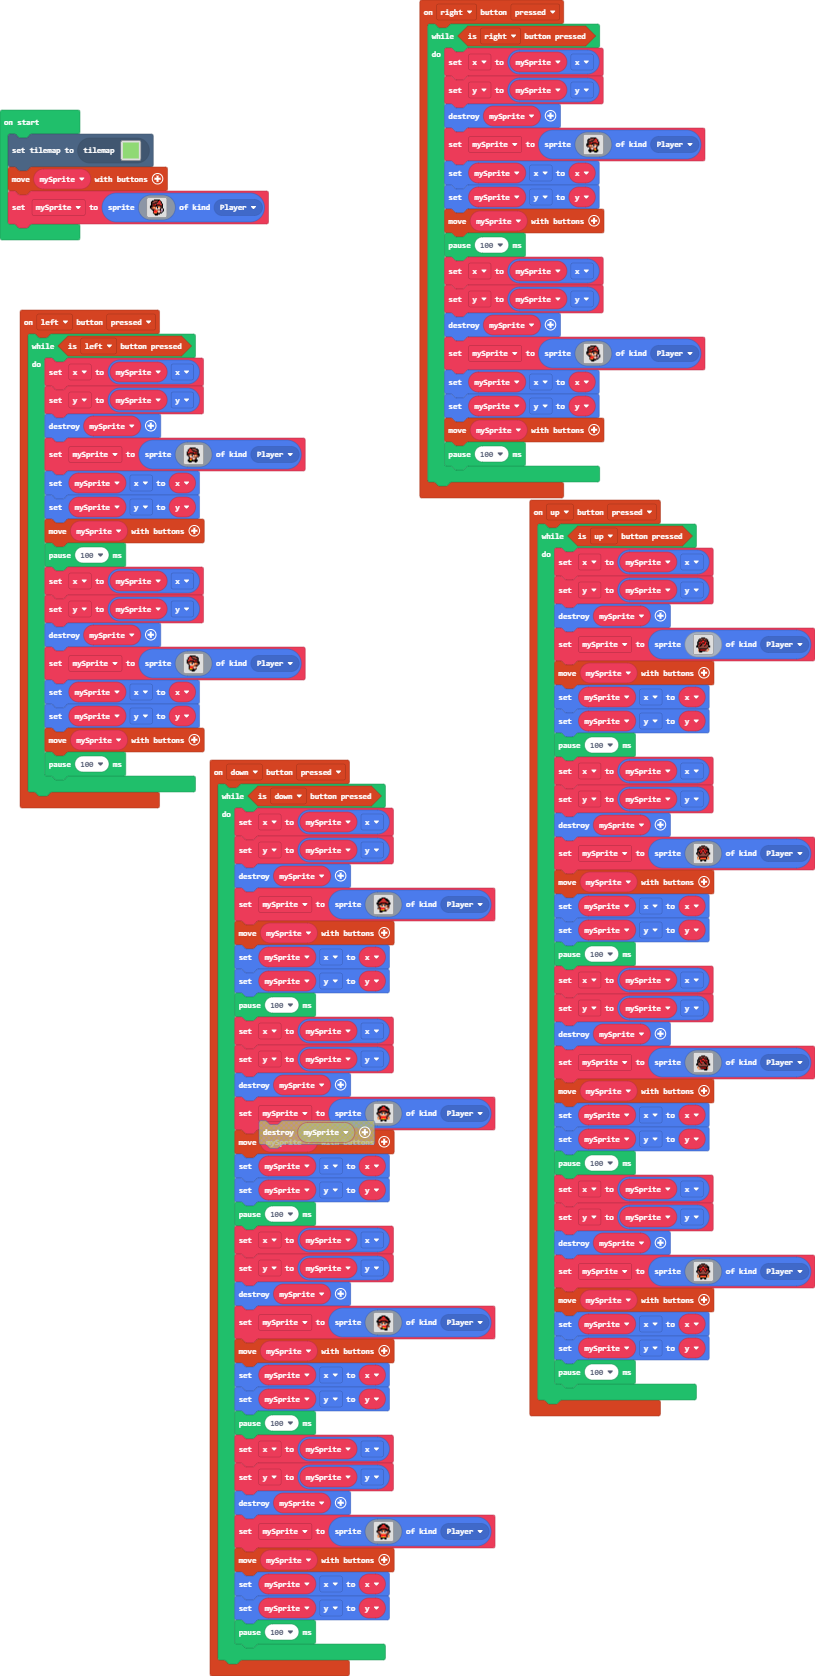
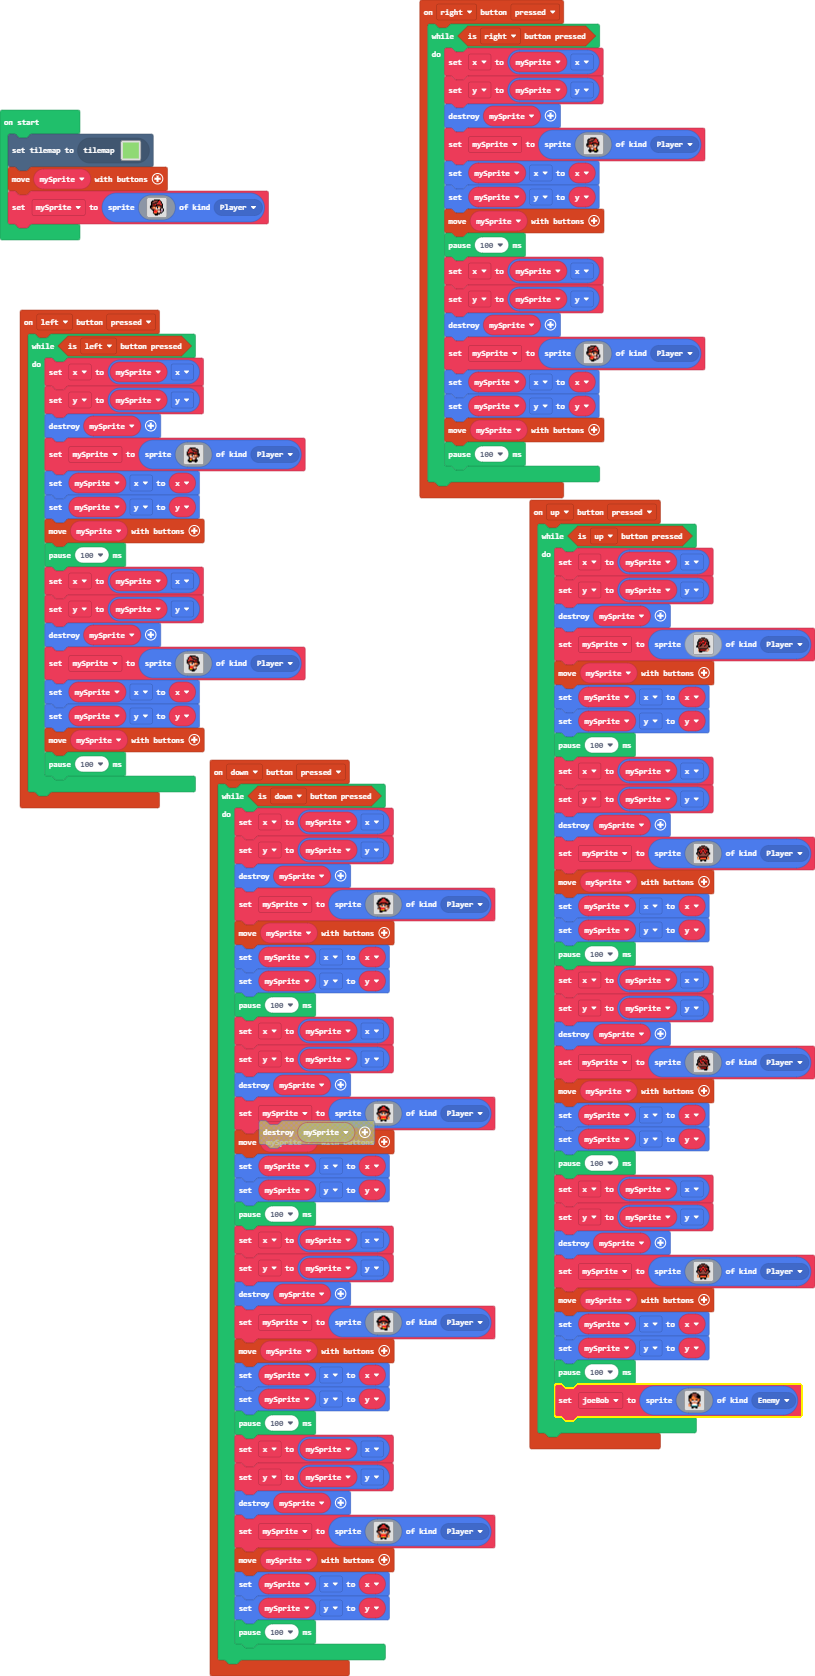
Update main.blocks, main.ts

Changed region(s): [[0.6442, 0.8067, 0.9816, 0.8687]]

diff --git a/main.ts b/main.ts
@@ -100,6 +100,24 @@ controller.up.onEvent(ControllerButtonEvent.Pressed, function () {
         mySprite.x = x
         mySprite.y = y
         pause(100)
+        joeBob = sprites.create(img`
+            . . . . f f f f . . . . 
+            . . f f e e e e f f . . 
+            . f f e e e e e e f f . 
+            f f f f 4 e e e f f f f 
+            f f f 4 4 4 e e f f f f 
+            f f f 4 4 4 4 e e f f f 
+            f 4 e 4 4 4 4 4 4 e 4 f 
+            f 4 4 f f 4 4 f f 4 4 f 
+            f e 4 d d d d d d 4 e f 
+            . f e d d b b d d e f . 
+            . f f e 4 4 4 4 e f f . 
+            e 4 f b 1 1 1 1 b f 4 e 
+            4 d f 1 1 1 1 1 1 f d 4 
+            4 4 f 6 6 6 6 6 6 f 4 4 
+            . . . f f f f f f . . . 
+            . . . f f . . f f . . . 
+            `, SpriteKind.Enemy)
     }
 })
 controller.left.onEvent(ControllerButtonEvent.Pressed, function () {
@@ -314,6 +332,7 @@ controller.down.onEvent(ControllerButtonEvent.Pressed, function () {
         pause(100)
     }
 })
+let joeBob: Sprite = null
 let y = 0
 let x = 0
 let mySprite: Sprite = null
